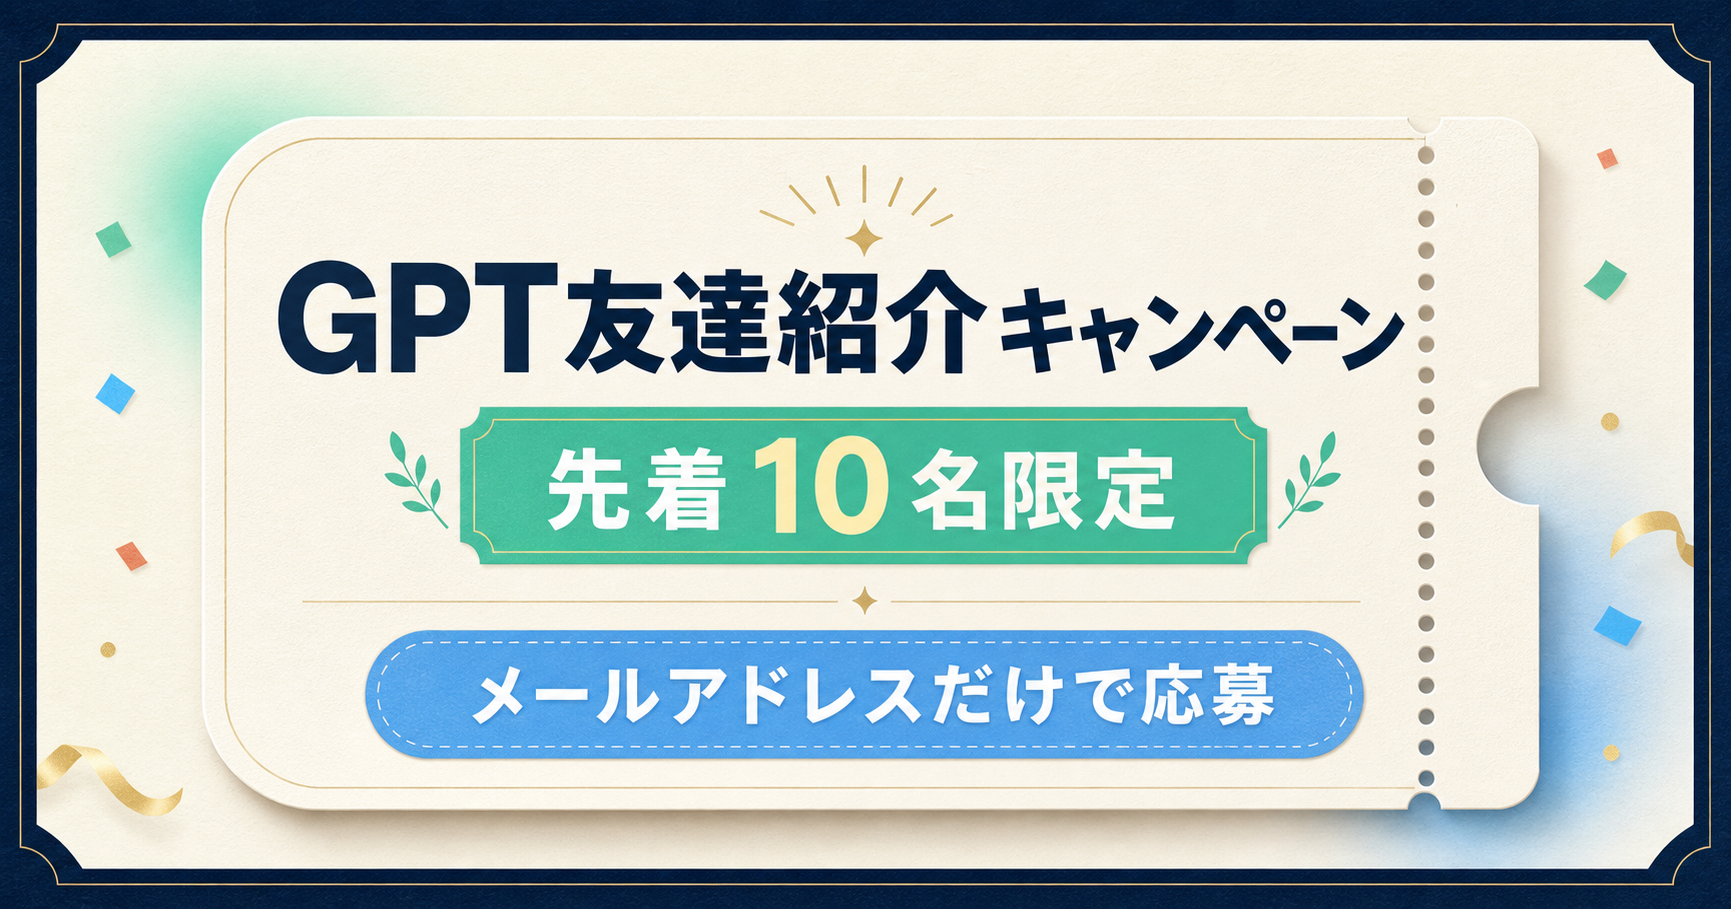
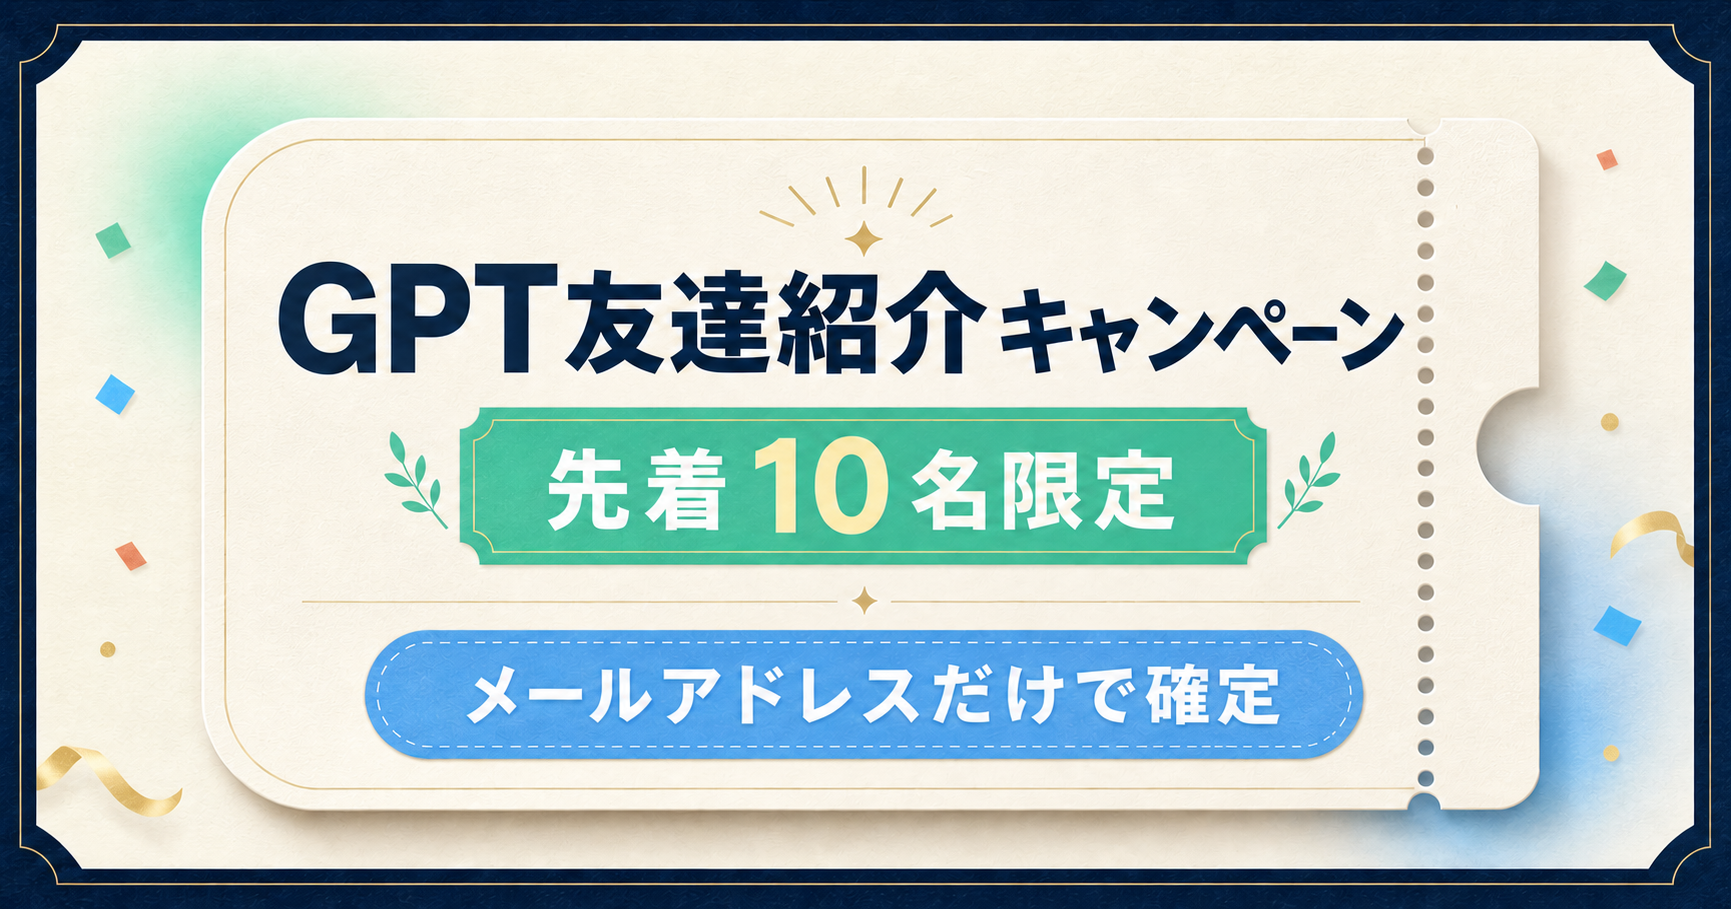
ver2.1

diff --git a/index.html b/index.html
@@ -511,7 +511,8 @@
         <ul class="conditions" aria-label="応募条件">
           <li><span class="check" aria-hidden="true">✓</span><span>過去2か月以内にCodexを利用していない方</span></li>
           <li><span class="check" aria-hidden="true">✓</span><span>現在、有効な友達紹介の招待を受け取っていない方</span></li>
-          <li><span class="check" aria-hidden="true">✓</span><span>招待後、PCのChatGPTデスクトップアプリを利用できる方</span></li>
+          <li><span class="check" aria-hidden="true">✓</span><span>招待後、PC版ChatGPTアプリ内のCodexで1回メッセージを送れる方</span></li>
+          <li><span class="check" aria-hidden="true">✓</span><span>PCをお持ちの方</span></li>
         </ul>
       </div>
 
